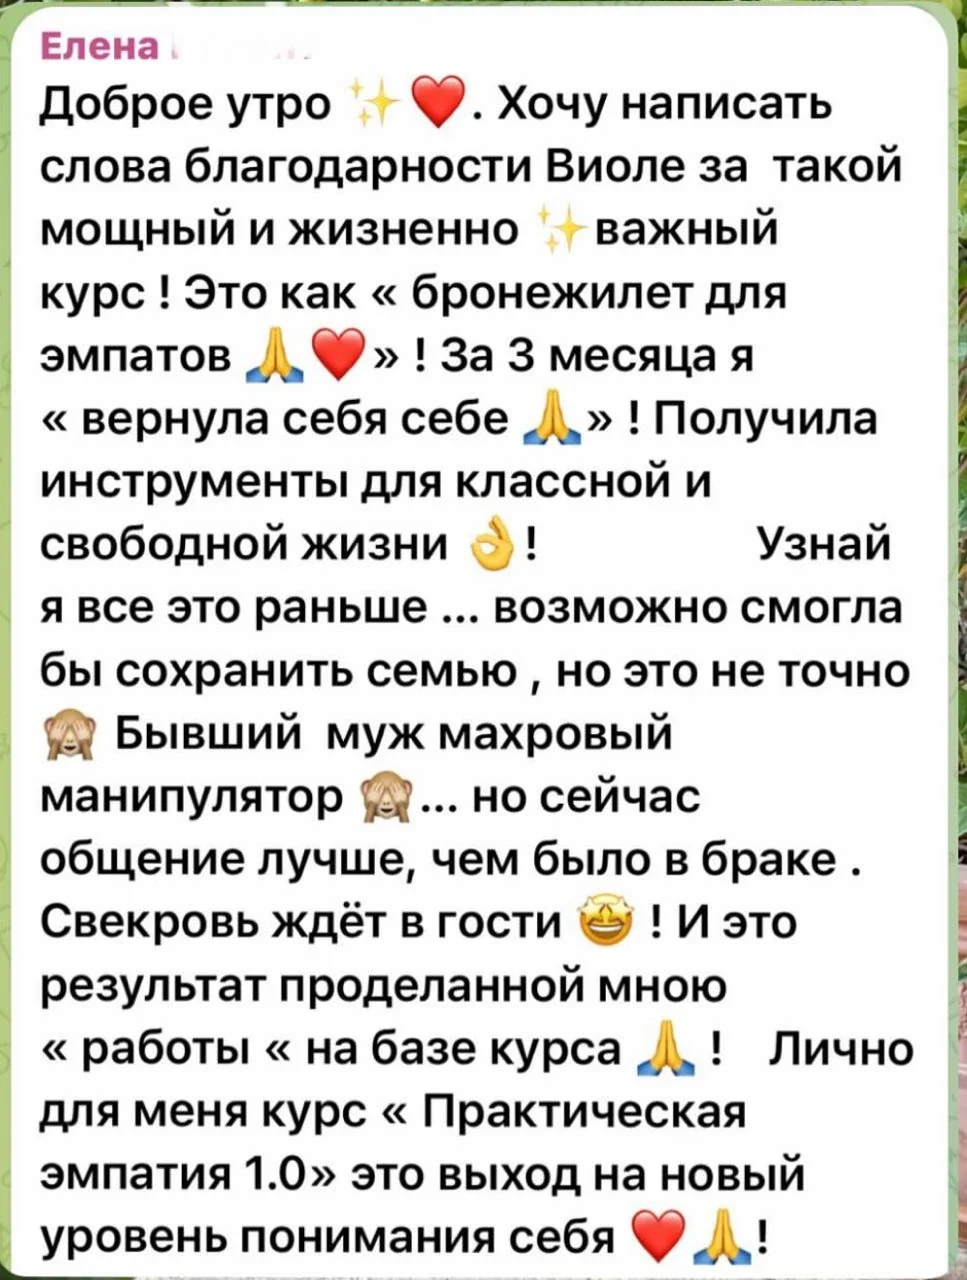
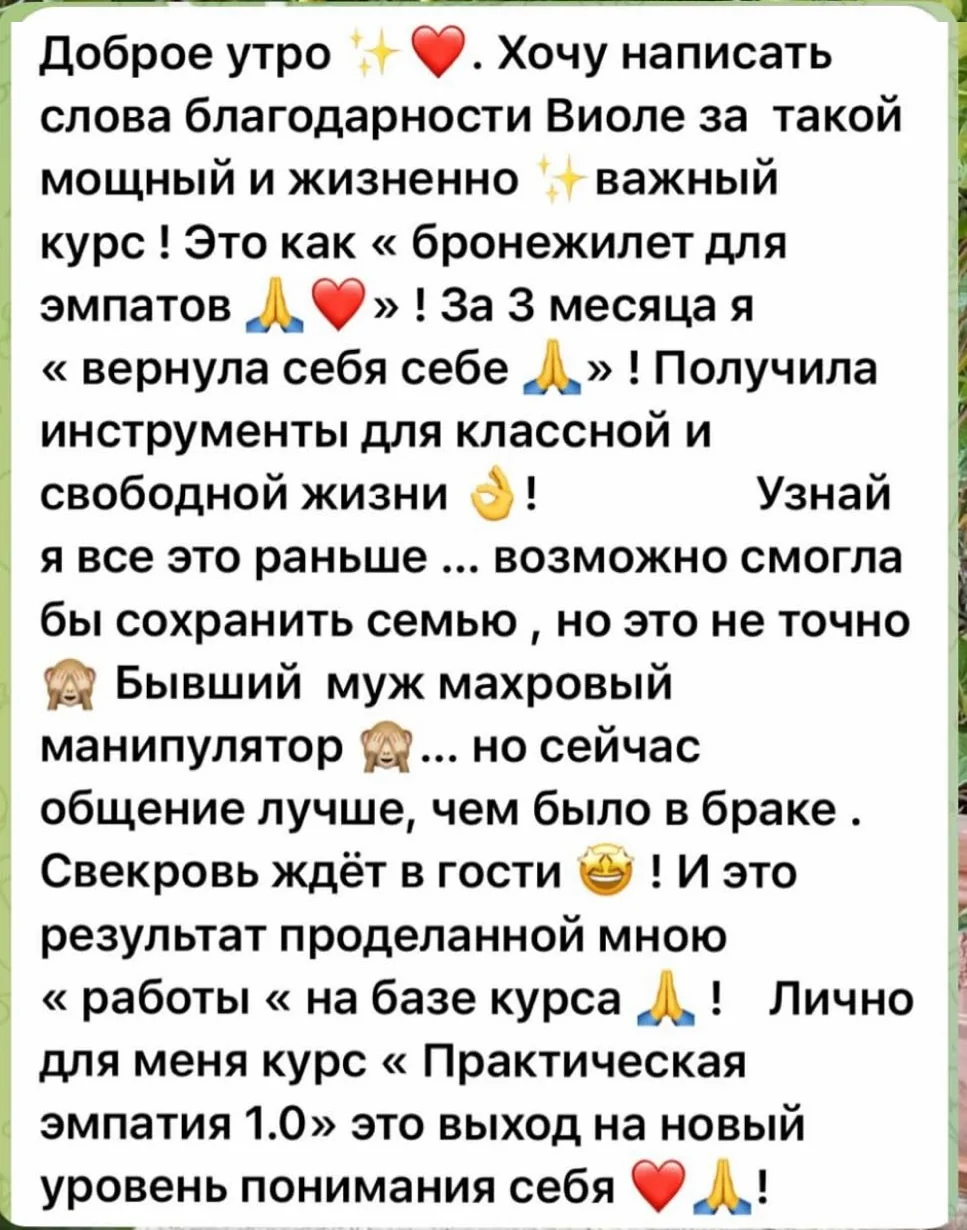
bf: убрано имя со скриншота отзыва
Claude-Session: https://claude.ai/code/session_01AzVfGL1xKTqbXbbpfdZJSq

diff --git a/miniapps/bf/index.html b/miniapps/bf/index.html
@@ -484,7 +484,7 @@
     <div class="rev-shots">
       <figure class="rev-shot"><img src="img/otzyv-1.webp" alt="Отзыв: Я была на многих курсах по психологии, они всегда пополняли мои знания, но это единственный курс, который имел глубокую практическую направленность и по-настоящему глубокие результаты. Виола изначально предупредила, что это не терапевтический курс, но для меня это оказалось именно так. Огромное спасибо, что вы есть!" width="981" height="545" loading="lazy" decoding="async"></figure>
       <figure class="rev-shot"><img src="img/otzyv-2.webp" alt="Отзыв: Знакомство с Виолой — это как переход на новую ветку реальности, а курс по эмпатии — настоящее сокровище. Какое счастье находиться в поле такого умного и грамотного специалиста, получать ответы на свои вопросы не в абстрактной форме, а в ответах, которые основаны на доказательной науке и на личном опыте самого эмпата. То, как Виола бережно относится к чувствам других людей, уже само по себе ценность и бесценный опыт для меня. Но если описать то, что мне дал курс по эмпатии, парой слов, то я бы сказала: «я начала дышать». Наконец-то я нашла ответы на свои вопросы: о том, кто я и какие перспективы появляются, когда ты понимаешь, как управлять своим даром. Да, эмпатия — это именно дар, а не наказание, как я думала раньше. Наконец-то я принимаю себя и вижу себя. И это для меня очень ценно." width="888" height="1251" loading="lazy" decoding="async"></figure>
-      <figure class="rev-shot"><img src="img/otzyv-3.webp" alt="Отзыв: Елена: Доброе утро. Хочу написать слова благодарности Виоле за такой мощный и жизненно важный курс! Это как «бронежилет для эмпатов»! За 3 месяца я «вернула себя себе»! Получила инструменты для классной и свободной жизни! Узнай я все это раньше… возможно смогла бы сохранить семью, но это не точно. Бывший муж махровый манипулятор… но сейчас общение лучше, чем было в браке. Свекровь ждёт в гости! И это результат проделанной мною «работы» на базе курса! Лично для меня курс «Практическая эмпатия 1.0» это выход на новый уровень понимания себя!" width="967" height="1280" loading="lazy" decoding="async"></figure>
+      <figure class="rev-shot"><img src="img/otzyv-3.webp?v=2" alt="Отзыв: Доброе утро. Хочу написать слова благодарности Виоле за такой мощный и жизненно важный курс! Это как «бронежилет для эмпатов»! За 3 месяца я «вернула себя себе»! Получила инструменты для классной и свободной жизни! Узнай я все это раньше… возможно смогла бы сохранить семью, но это не точно. Бывший муж махровый манипулятор… но сейчас общение лучше, чем было в браке. Свекровь ждёт в гости! И это результат проделанной мною «работы» на базе курса! Лично для меня курс «Практическая эмпатия 1.0» это выход на новый уровень понимания себя!" width="967" height="1230" loading="lazy" decoding="async"></figure>
       <figure class="rev-shot"><img src="img/otzyv-4.webp" alt="Отзыв: Вы уникально преподносите информацию. Ваше дело и знания полезны. Конструктивно. Доступно. Лаконично. Порой по жизни, как на машине по дороге, разметки, встреча, обочина. Теряешь контроль, или засмотрелся куда-то, отвлёкся, отвлекли… Машину повезло, сам вылетел на встречку… Суета. Благодаря Вашей Работе собрался с мыслями, выровнялся и едешь дальше… Рука помощи. От души." width="1050" height="583" loading="lazy" decoding="async"></figure>
       <figure class="rev-shot"><img src="img/otzyv-5.webp" alt="Отзыв: Я люблю одиночество! Я в нем совершенствуюсь, я в нем независима. Раньше мне казалось, что когда я среди людей, мои проблемы решаются благодаря окружению, но с годами все поменялось — только когда я сама с собой я анализирую, спокойно, все что произошло, и нахожу решение или выход. Мне не скучно одной, я могу делать то, что мне интересно и не надо разрешения, искать время среди хлопот, я стала жить для себя, как говорят, в свое удовольствие — Мир велик! Дети, внуки — я теперь живу не их жизнью, а своей! И я вдруг поняла, что я сама себе нужна! Спасибо Вам за программу, огромное!" width="861" height="652" loading="lazy" decoding="async"></figure>
     </div>
